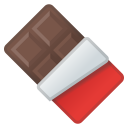
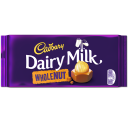
Added more realistic item images

diff --git a/html/ui.html b/html/ui.html
@@ -10,7 +10,7 @@
 
 <body>
     <script src="js/config.js"></script>
-    <script src="locales/cs.js"></script>
+    <script src="locales/en.js"></script>
     <script src="https://code.jquery.com/jquery-3.3.1.min.js"></script>
     <script src="https://cdnjs.cloudflare.com/ajax/libs/jqueryui/1.12.1/jquery-ui.min.js"></script>
     <script src="js/inventory.js"></script>
